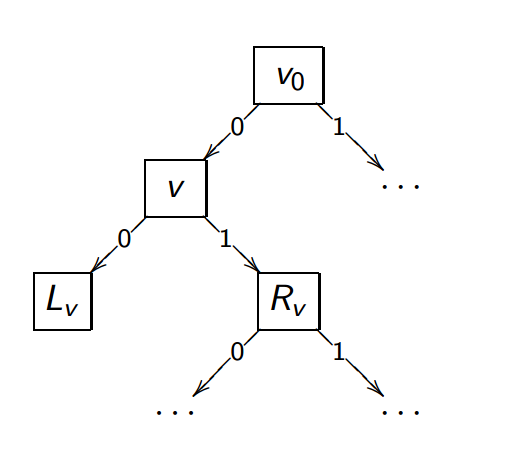
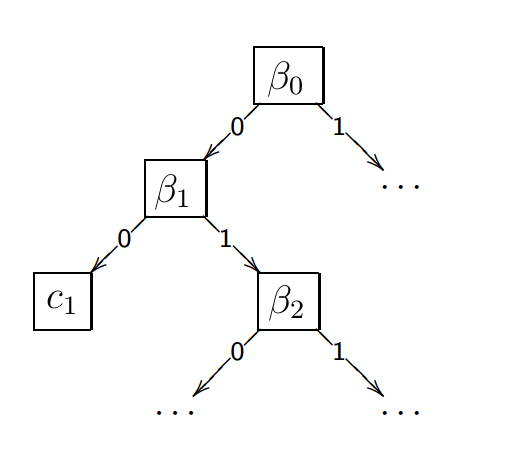
updated lecture 8

diff --git a/lecture8/ML-lecture8.tex b/lecture8/ML-lecture8.tex
@@ -29,7 +29,7 @@
 \begin{frame}\frametitle{Логические закономерности}
 ${X^l = \left( x_i, y_i \right)_{i=1}^l}$ - обучающая выборка.\\
 \vspace{5mm}
-Логическая закономерность (правило) -- предикат ${R: X \rightarrow \left\{ 0, 1 \right\} }$, который удовлетворяет двум требованиям:\\
+Логическая закономерность (правило) -- предикат ${\beta: X \rightarrow \left\{ 0, 1 \right\} }$, который удовлетворяет двум требованиям:\\
 \begin{enumerate} [-]
 	\item Интерпретируемость
 	\item Информативность относительно одного из классов ${c \in Y}$
@@ -67,10 +67,10 @@ ${X^l = \left( x_i, y_i \right)_{i=1}^l}$ - обучающая выборка.\\
 \begin{frame}\frametitle{Информативность}
 	\begin{itemize}
 		\item[--] Максимизировать количество правильно распознанных объектов класса $c$\\
-		${ p_c(R) = \# \left\{ x_i: R(x_i) = 1 , y_i = c \right\} \rightarrow \max }$\\
+		${ p_c(\beta) = \# \left\{ x_i: \beta(x_i) = 1 , y_i = c \right\} \rightarrow \max }$\\
 
 		\item[--] Минимизировать количество объектов, ошибочно классифицированных как класс $c$\\
-		${ n_c(R) = \# \left\{ x_i: R(x_i) = 1 , y_i \neq c \right\} \rightarrow \min }$\\
+		${ n_c(\beta) = \# \left\{ x_i: \beta(x_i) = 1 , y_i \neq c \right\} \rightarrow \min }$\\
 		
 	\end{itemize}
 \end{frame}
@@ -126,7 +126,7 @@ ${X^l = \left( x_i, y_i \right)_{i=1}^l}$ - обучающая выборка.\\
 \begin{frame}\frametitle{Основные вопросы}
 	\begin{itemize}
 		\item[--] Как изобретать признаки? 
-		\item[--] Какого вида закономерности $R(x)$ нужны?
+		\item[--] Какого вида закономерности $\beta(x)$ нужны?
 		\item[--] Как определять информативность? 
 		\item[--] Как искать закономерности?
 		\item[--] Как объединять закономерности в алгоритм?
@@ -138,20 +138,20 @@ ${X^l = \left( x_i, y_i \right)_{i=1}^l}$ - обучающая выборка.\\
 
 \begin{frame}\frametitle{Виды правил}
 \begin{itemize}
-\item[--] Пороговое условие (decision stump)
-$R(x) = \left[f_j(x) \leq a_j \right]$ или  $\left[a_j \leq f_j(x) \leq b_j \right]$
+\item[--] Пороговое условие (decision stump)\\
+$\beta(x) = \left[f_j(x) \leq a_j \right]$ или  $\left[a_j \leq f_j(x) \leq b_j \right]$
 \item[--] Конъюнкция $J$ пороговых условий
-$R(x) = \bigwedge\limits_{j \in J} \left[a_j \leq f_j(x) \leq b_j \right]$
+$\beta(x) = \bigwedge\limits_{j \in J} \left[a_j \leq f_j(x) \leq b_j \right]$
 \item[--] Синдром -- выполнение не менее $d$ условий из $J$
-$R(x) = \left[\sum\limits_{j \in J} \left[a_j \leq f_j(x) \leq b_j \right] \geq d \right]$
+$\beta(x) = \left[\sum\limits_{j \in J} \left[a_j \leq f_j(x) \leq b_j \right] \geq d \right]$
 \end{itemize}
 \end{frame}
 
 \begin{frame}\frametitle{Оценивание информативности}
 Идея: Хотим получить один критерий из двух:\\
 \vspace{5mm}
-${ p(R) = \# \left\{ x_i: R(x_i) = 1 , y_i = c \right\} \rightarrow \max  }$ 
-${ n(R) = \# \left\{ x_i: R(x_i) = 1 , y_i \neq c \right\} \rightarrow \min}$ \\
+${ p(\beta) = \# \left\{ x_i: \beta(x_i) = 1 , y_i = c \right\} \rightarrow \max  }$ 
+${ n(\beta) = \# \left\{ x_i: \beta(x_i) = 1 , y_i \neq c \right\} \rightarrow \min}$ \\
 \vspace{5mm}
 	Очевидные свертки:\\
 	\begin{itemize}
@@ -202,14 +202,14 @@ $\sqrt{p} - \sqrt{n} \rightarrow \max$
 
 \begin{frame}\frametitle{Поиск информативных закономерностей}
 Input: Обучающая выборка $X^l$\\
-Output: Множество закономерностей $Z$\\
+Output: Множество закономерностей $\mathcal{B}$\\
 \vspace{5mm}
-Выбрать начальное множество $Z$\\
+Выбрать начальное множество $\mathcal{B}$\\
 Повторять пока правила улучшаются:\\
-\hspace{10mm} $Z'=$ множество модификаций правил $R \in Z$\\
-\hspace{10mm} Удалить слишком похожие правила из $Z \cup Z'$\\
-\hspace{10mm} Оценить инфомативность правил $R \in Z'$\\
-\hspace{10mm} $Z=$ наиболее информативные правила из $Z \cup Z'$\\
+\hspace{10mm} $\mathcal{B}'=$ множество модификаций правил $\beta \in \mathcal{B}$\\
+\hspace{10mm} Удалить слишком похожие правила из $\mathcal{B} \cup \mathcal{B}'$\\
+\hspace{10mm} Оценить инфомативность правил $\beta \in \mathcal{B}'$\\
+\hspace{10mm} $\mathcal{B}=$ наиболее информативные правила из $\mathcal{B} \cup \mathcal{B}'$\\
 \vspace{5mm}
 Примеры:\\
 \begin{enumerate}[--]
@@ -236,45 +236,46 @@ Output: Множество закономерностей $Z$\\
 Множество классов $c_1,c_2,\dots, c_T \in Y$\\
 \vspace{5mm}
 Идея:\\
-Возьмем $R_1(x), R_2(x), \dots, R_T(x)$ закономерностей и будем по порядку применять на объекте. 
-Как только предикат $R_i$ сработал -- вернем соответствующий класс $c_i$.
+Возьмем $\beta_1(x), \beta_2(x), \dots, \beta_T(x)$ закономерностей и будем по порядку применять на объекте. 
+Как только предикат $\beta_i$ сработал -- вернем соответствующий класс $c_i$.
 \end{frame}
 
 \begin{frame}\frametitle{Решающий список}
 Множество классов $c_1,c_2,\dots, c_T \in Y$\\
 \vspace{5mm}
 Идея:\\
-Возьмем $R_1(x), R_2(x), \dots, R_T(x)$ закономерностей и будем по порядку применять на объекте. 
-Как только предикат $R_i$ сработал -- вернем соответствующий класс $c_i$.\\
+Возьмем $\beta_1(x), \beta_2(x), \dots, \beta_T(x)$ закономерностей и будем по порядку применять на объекте. 
+Как только предикат $\beta_i$ сработал -- вернем соответствующий класс $c_i$.\\
 \vspace{5mm}
-$E(R_i, X^l) = \frac{n(R_i)}{n(R_i)+p(R_i)} \rightarrow \min$ -- доля ошибок $R_i$ на $X^l$\\
+$E(\beta_i, X^l) = \frac{n(\beta_i)}{n(\beta_i)+p(\beta_i)} \rightarrow \min$ -- доля ошибок $\beta_i$ на $X^l$\\
+\vspace{5mm}
 Т.к. каждое правило принимает окончательное решение $\Rightarrow$ ошибка правила равна ошибке всего алгоритма
 \end{frame}
 
 \begin{frame}\frametitle{Жадный алгоритм для решающего списка}
 Input: $X^l$, семейство предикатов $\mathcal{B}$, $T_{max}$, $I_{min}$, $E_{max}$, $l_0$\\
-Output: Решающий список $\left\{ R_i, c_i \right\}_{i=1}^T$\\
+Output: Решающий список $\left\{ \beta_i, c_i \right\}_{i=1}^T$\\
 \vspace{5mm}
 $U = X^l$\\
 Для всех $i = 1,2,\dots,T_{max}$\\
 \hspace{10mm} Выбрать класс $c_i$\\
 \hspace{10mm} Максимизировать информативность при \\
 \hspace{40mm} ограничении на число ошибок\\
-\hspace{10mm} Если $I(R_i, U) < I_{min}$ выйти\\
-\hspace{10mm} Убрать объекты, покрытые правилом $R_i$\\
+\hspace{10mm} Если $I(\beta_i, U) < I_{min}$ выйти\\
+\hspace{10mm} Убрать объекты, покрытые правилом $\beta_i$\\
 \hspace{10mm} Если $\vert U \vert \leq l_0$ выйти
 \end{frame}
 
 \begin{frame}\frametitle{Жадный алгоритм для решающего списка}
 Input: $X^l$, семейство предикатов $\mathcal{B}$, $T_{max}$, $I_{min}$, $E_{max}$, $l_0$\\
-Output: Решающий список $\left\{ R_i, c_i \right\}_{i=1}^T$\\
+Output: Решающий список $\left\{ \beta_i, c_i \right\}_{i=1}^T$\\
 \vspace{5mm}
 $U = X^l$\\
 Для всех $i = 1,2,\dots,T_{max}$\\
 \hspace{10mm} Выбрать класс $c_i$\\
-\hspace{10mm} $R_i = \max\limits_{E(R, U) \leq E_{max}} I(R, U)$\\
-\hspace{10mm} Если $I(R_i, U) < I_{min}$ выйти\\
-\hspace{10mm} $U = \left\{ x \in U: R_i(x) = 0 \right\}$\\
+\hspace{10mm} $\beta_i = \max\limits_{E(\beta, U) \leq E_{max}} I(\beta, U)$\\
+\hspace{10mm} Если $I(\beta_i, U) < I_{min}$ выйти\\
+\hspace{10mm} $U = \left\{ x \in U: \beta_i(x) = 0 \right\}$\\
 \hspace{10mm} Если $\vert U \vert \leq l_0$ выйти
 \end{frame}
 
@@ -294,13 +295,13 @@ $U = X^l$\\
 \end{enumerate}
 \vspace{5mm}
 Параметр $E_{max}$ влияет на сложность списка:\\
-$E_{max} \downarrow$ $\Rightarrow$ $p(R_i) \downarrow, T \uparrow$
+$E_{max} \downarrow$ $\Rightarrow$ $p(\beta_i) \downarrow, T \uparrow$
 \end{frame}
 
 \begin{frame}\frametitle{Бинарное решающее дерево}
 Бинарное решающее дерево -- алгоритм классификации a(x), задающийся бинарным деревом:\\
 \begin{enumerate}[--]
-\item $\forall v \in V_{in} \rightarrow \beta_v: X \rightarrow \left\{ 0,1\right\}$, $\beta \in \mathcal{B}$
+\item $\forall v \in V_{inner} \rightarrow \beta_v: X \rightarrow \left\{ 0,1\right\}$, $\beta \in \mathcal{B}$
 \item $\forall v \in V_{leaf} \rightarrow $ имя класса $c_v \in Y$\\
 
 \begin{figure}[htbp]
@@ -310,11 +311,68 @@ $E_{max} \downarrow$ $\Rightarrow$ $p(R_i) \downarrow, T \uparrow$
 \end{frame}
 
 \begin{frame}\frametitle{Пример решающего дерева}
-\textcolor{red}{TODO}
+\begin{figure}[htbp]
+  \includegraphics[height=150pt, keepaspectratio = true]{images/fisher}   
+\end{figure}
+В осях двух самых информативных признаков (из 4)
+два класса разделились без ошибок, на третьем 3 ошибки.
+\footnotesize\textcolor{gray} {Картинка с machinelearning.ru}
+
+\end{frame}
+
+\begin{frame}\frametitle{Набор конъюнкций}
+\begin{figure}[htbp]
+  \includegraphics[height=190pt, keepaspectratio = true]{images/fisher1}   
+\end{figure}
+\footnotesize\textcolor{gray} {Картинка с machinelearning.ru}
+
 \end{frame}
 
 \begin{frame}\frametitle{Алгоритм построения ID3}
-\textcolor{red}{TODO}
+Input: $X^l$, $\mathcal{B}$\\
+Output: Решающее дерево \\
+\vspace{3mm}
+Если все объекты из $U$ лежат в одном классе $c \in Y$,\\ 
+\hspace{10mm} вернуть новый лист $v$, $c_v = c$\\
+Найти предикат с максимальной информативностью\\
+Разбить выборку на две части $U = U_0 \cup U_1$ по предикату $\beta$\\
+Если $U_0$ или $U_1$ пуст, то вернуть новый лист $v$,\\ $c_v$ = Мажоритарный класс(U)\\
+Создать новую внутреннюю вершину $v$: $\beta_v = \beta$\\
+Рекурсивно построить левое и правое поддеревья
+\end{frame}
+
+\begin{frame}\frametitle{Алгоритм построения ID3}
+LearnID3 (U, $\mathcal{B}$):\\
+\hspace{10mm} Если все объекты из $U$ лежат в одном классе $c \in Y$: \\
+\hspace{20mm} Вернуть новый лист $v$, $c_v = c$\\
+\vspace{3mm}
+\hspace{10mm} $\beta = \max\limits_{\beta \in \mathcal{B}} I(\beta, U)$\\
+\vspace{3mm}
+\hspace{10mm} $U_0 = \left\{ x \in U : \beta(x) = 0\right\}$	\\
+\hspace{10mm} $U_1 = \left\{ x \in U : \beta(x) = 1\right\}$	\\
+\vspace{3mm}
+\hspace{10mm} Если $U_0 = \oslash$ или $U_1 = \oslash$:\\ 
+\hspace{20mm} Вернуть $v$, $c_v$ = major\_class(U)\\
+\vspace{3mm}
+\hspace{10mm} Создать новую внутреннюю вершину $v$: $\beta_v = \beta$\\
+\vspace{3mm}
+\hspace{10mm} $L_v =$ LearnID3 ($U_0$, $\mathcal{B}$)\\
+\hspace{10mm} $R_v =$ LearnID3 ($U_1$, $\mathcal{B}$)\\
+\hspace{10mm} Вернуть $v$
+\end{frame}
+
+\begin{frame}\frametitle{Критерий информативности}
+\begin{enumerate}[--]
+%\item Отделение одного класса\\
+%$I(\beta,X^l) = \max\limits_{c \in Y} I_c (\beta,X^l)$
+\item Многоклассовый энтропийный критерий
+$I(\beta,X^l) = \sum\limits_{c \in Y} h(\frac{P_c}{l}) - \frac{p}{l}h(\frac{p_c}{p}) - \frac{l-p}{l}h(\frac{P_c-p_c}{l-p})$\\
+где $P_c = \# \left\{ x_i: y_i =c \right\} $, $p = \# \left\{ x_i: \beta(x_i)= 1 \right\} $, $h(z) = -z log_2 z$
+\item Критерий Джини\\
+$I(\beta,X^l)= \# \left\{ (x_i, x_j): \beta(x_i) = \beta(x_j), y_i = y_j \right\}$
+\item Критерий Донского\\
+$I(\beta,X^l)= \# \left\{ (x_i, x_j): \beta(x_i) \neq \beta(x_j), y_i \neq y_j \right\}$
+\end{enumerate}
 \end{frame}
 
 \begin{frame}\frametitle{Плюсы и минусы}
@@ -323,24 +381,110 @@ $E_{max} \downarrow$ $\Rightarrow$ $p(R_i) \downarrow, T \uparrow$
 \item Допустимы разнотипные данные и данные с пропусками
 \item Не бывает отказов от классификации
 \item Трудоёмкость линейна по длине выборки
+\item Можно варьировать множество $\mathcal{B}$
 \end{enumerate}
 \begin{enumerate}[-]
 \item Жадный ID3 сильно переобучается
 \item Высокая чувствительность к шуму, к составу выборки, к критерию информативности
-\item 
+\item Чем дальше $v$ от корня, тем меньше надёжность выбора $\beta_v$ , $c_v$
 \end{enumerate}
 \end{frame}
 
-\begin{frame}\frametitle{Усечение дерева C4.5}
-\textcolor{red}{TODO}
+\begin{frame}\frametitle{Переобучение}
+\begin{figure}[htbp]
+  \includegraphics[height=190pt, keepaspectratio = true]{images/overfitting}   
+\end{figure}
+\vspace{5mm}
+\footnotesize\textcolor{gray} {Картинка с machinelearning.ru}
 \end{frame}
 
-\begin{frame}\frametitle{ODT}
-\textcolor{red}{TODO}
+\begin{frame}\frametitle{Подрезание дерева C4.5}
+$X^k$ -- независимая контрольная выборка, $k \approx 0.5l$\\
+Для всех $v \in V_{inner}$:\\
+\hspace{10mm} $S_v$ = подмножество объектов $X^k$, дошедших до $v$\\
+\hspace{10mm} Если $S_v = \oslash$:\\
+\hspace{20mm} Вернуть новый лист $v$, $c_v$ = major\_class(U)\\
+\hspace{10mm} Вычислить число ошибок четырьмя способами:\\
+\hspace{20mm} $r(v)$ -- поддеревом, растущим из вершины $v$\\
+\hspace{20mm} $r_L(v)$ -- левой дочерней вершины $L_v$\\
+\hspace{20mm} $r_R(v)$ -- правой дочерней вершины $R_v$\\
+\hspace{20mm} $r_c(v)$ -- к классу $c \in Y$\\
+\hspace{10mm} В зависимости от того, какое из них минимально:\\
+\hspace{20mm} Сохранить поддерево $v$\\
+\hspace{20mm} Заменить поддерево $v$ поддеревом $L_v$\\
+\hspace{20mm} Заменить поддерево $v$ поддеревом $R_v$\\
+\hspace{20mm} Заменить $v$ листом $c_v = \min\limits{c \in Y} r_c(v)$\\
+\end{frame}
+
+\begin{frame}\frametitle{Небрежные деревья}
+\textcolor{red}{TODO?}
+Input: Выборка $X^l$, семейство правил $\mathcal{B}$, глубина дерева $H$\\
+Output: условия $\beta_h$, $h = 1, \dots, H$, таблица $T$ : $\left\{0, 1\right\}^H \rightarrow Y$\\
+Для всех $h = 1, \dots, H$:\\
+\hspace{10mm} $\beta_h = \max\limits_{\beta \in \mathcal{B}} I(\beta_1, \dots, \beta_{h-1}, X^l)$\\
+Для всех $b = (b_1, \dots, b_H ) \in {0, 1}$\\
+\hspace{10mm} $T(b_1,\dots, b_H ) = \max\limits_{c \in Y} \sum\limits_{i=1}^l \left[y_i = c\right] \prod\limits_{h=1}^H \left[ \beta_h(x_i) = b_h \right]$
+
+\end{frame}
+
+\begin{frame}\frametitle{Композиции алгоритмов}
+\begin{enumerate} [--]
+\item Можно использовать результаты нескольких	алгоритмов, а не одного.
+\item В подавляющем большинстве случаев композиция алгоритмов даёт лучший результат, нежели какой-то один
+\end{enumerate}
+\end{frame}
+
+
+\begin{frame}\frametitle{Вопрос}
+Почему это работает?
+\end{frame}
+
+\begin{frame}\frametitle{Почему это работает}
+\begin{enumerate} [--]
+\item Ошибки	 алгоритмов взаимно компенсируются	
+\item На одних объектах хорошо работают одни алгоритмы, на других -- другие	
+\end{enumerate}
+\end{frame}
+
+\begin{frame}\frametitle{Композиции алгоритмов}
+\begin{enumerate} [--]
+\item Желательно	 использовать принципиально разные алгоритмы, наборы признаков	
+\item Не	 всегда два оптимальных алгоритма в смеси дадут оптимальный результат
+\item Чем больше параметров -- тем больше шанс	 переобучиться	
+\end{enumerate}
+\end{frame}
+
+
+\begin{frame}\frametitle{Bootstrapping}
+Выборка $X^l$\\
+\vspace{5mm}
+Сгенерируем много датасетов так: будем выбирать из $X$ $l$ точек с замещением, т.е. в новом датасете
+некоторые точки будут повторяться
+\end{frame}
+
+\begin{frame}\frametitle{Баггинг}
+Выборка $X^l$\\
+\vspace{5mm}
+Сделаем путем bootstrapping $M$ датасетов размера $l$, потом обучим $M$ моделей, а потом усредним\\
+$y(x) = \frac{1}{M} \sum\limits_{i=1}^l y_i(x)$
+
+\end{frame}
+
+\begin{frame}\frametitle{Бустинг}
+\begin{enumerate} [--]
+\item Предположим, что у нас есть возможность обучать какую-нибудь простую модель на подмножестве данных.
+\item Обучили модель, посмотрели, где она хорошо работает, обучили следующую модель на том подмножестве, где она работает плохо, повторили.
+\end{enumerate}
 \end{frame}
 
 \begin{frame}\frametitle{Random forest}
-\textcolor{red}{TODO}
+Голосование деревьев классификации, $Y = \left\{ -1, +1 \right\}$\\
+$a(t) = \sign \frac{1}{T} \sum\limits_{t=1}^T b_t(x)$\\
+\begin{enumerate}[--]
+\item Каждое дерево $b_t(x)$ обучается по случайной выборке с повторениями
+\item В каждой вершине признак выбирается из случайного подмножества $\sqrt{n}$ признаков
+\item Признаки и пороги выбираются по критерию Джини
+\end{enumerate}
 \end{frame}
 
 \begin{frame}\frametitle{На следующей лекции}
